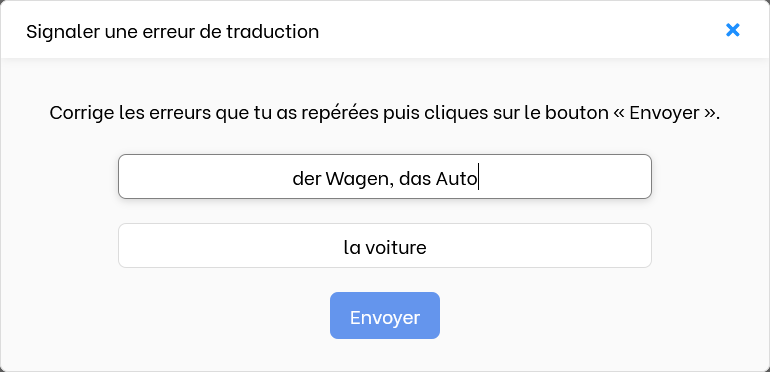
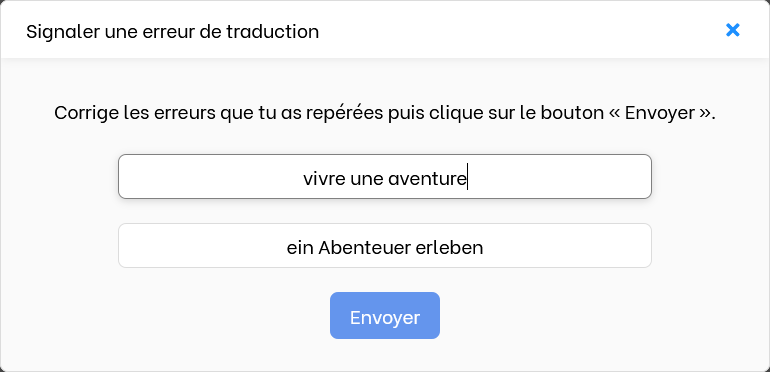
Correction d'une faute d'orthographe

Changed region(s): [[0.0623, 0.2661, 0.9351, 0.3253], [0.374, 0.4435, 0.6234, 0.5027], [0.374, 0.6505, 0.6234, 0.6801]]

diff --git a/play.html b/play.html
@@ -51,7 +51,7 @@
           </div>
           <div id="body-inputs" class="body">
             <p>
-              Corrige les erreurs que tu as repérées puis cliques sur le
+              Corrige les erreurs que tu as repérées puis clique sur le
               bouton « Envoyer ».
             </p>
             <input id="input-original" type="text" placeholder="Mot d'origine et synonymes"
